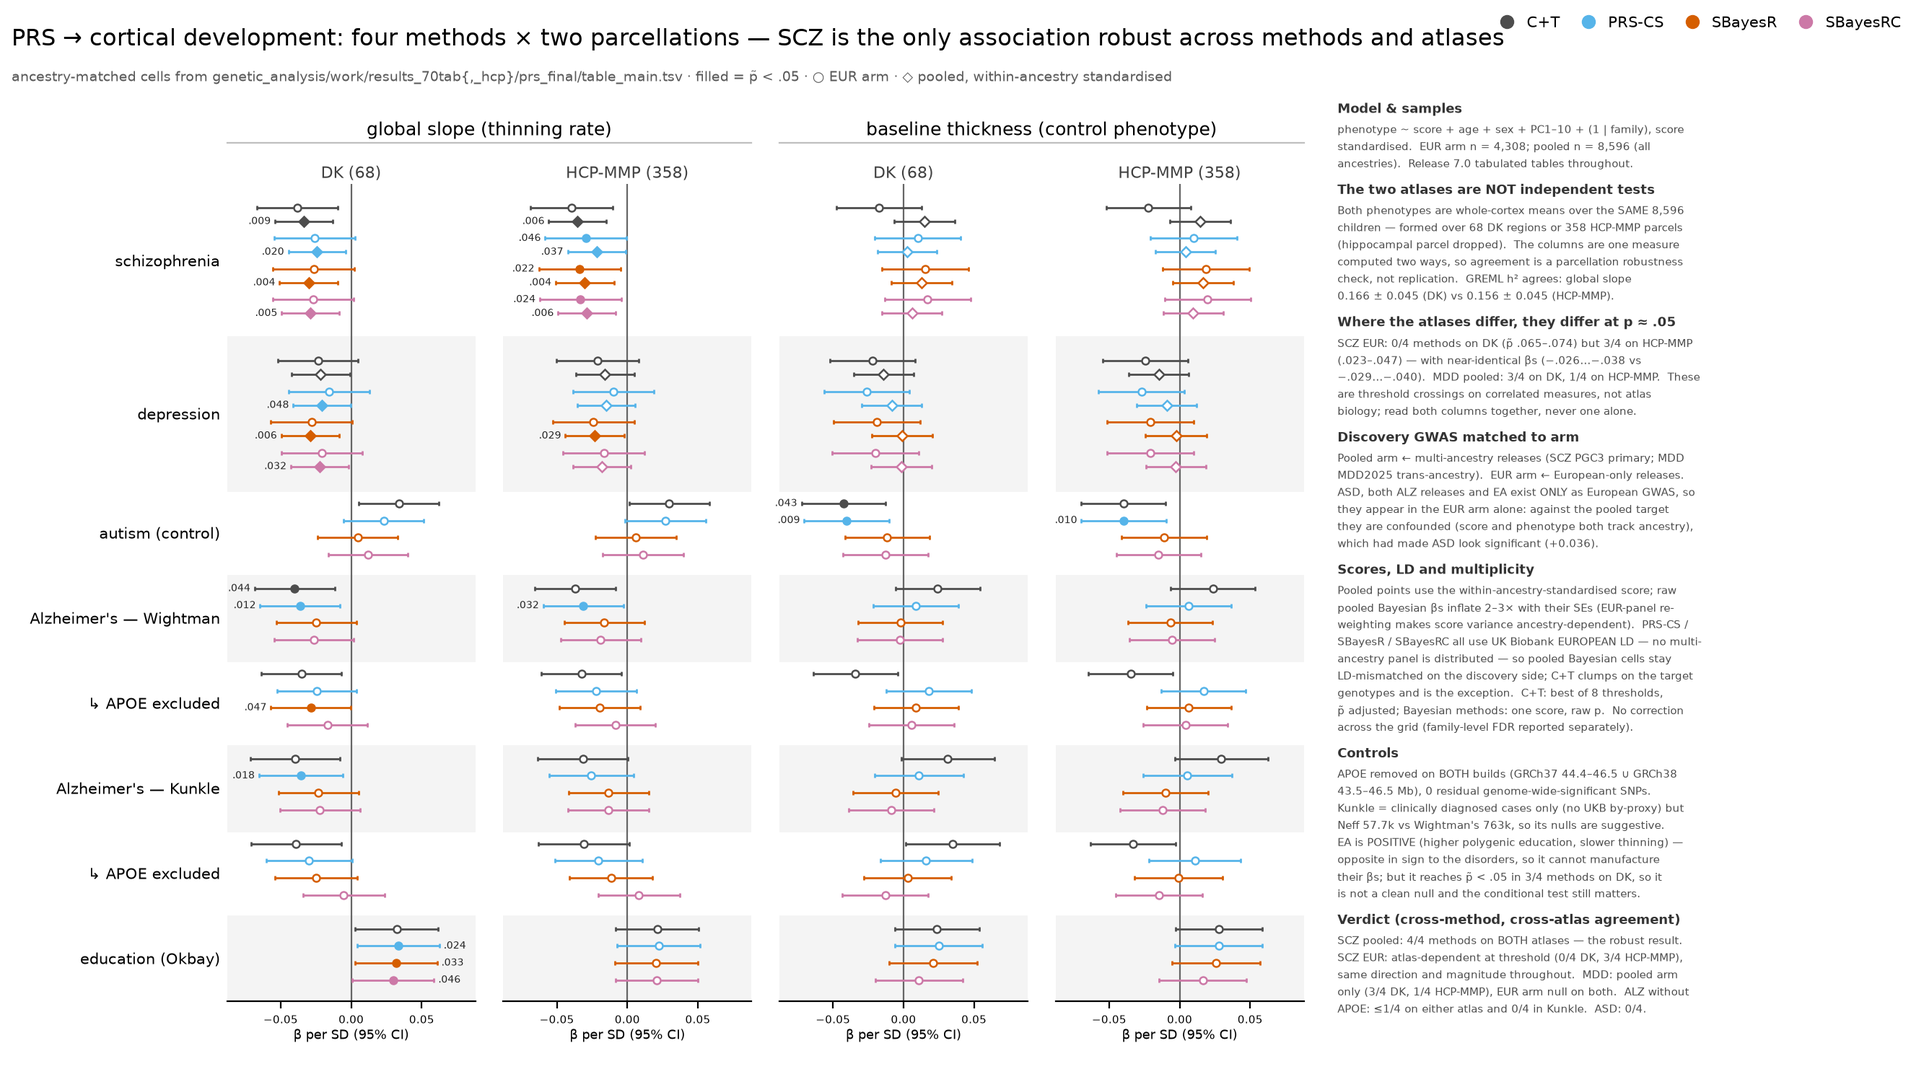
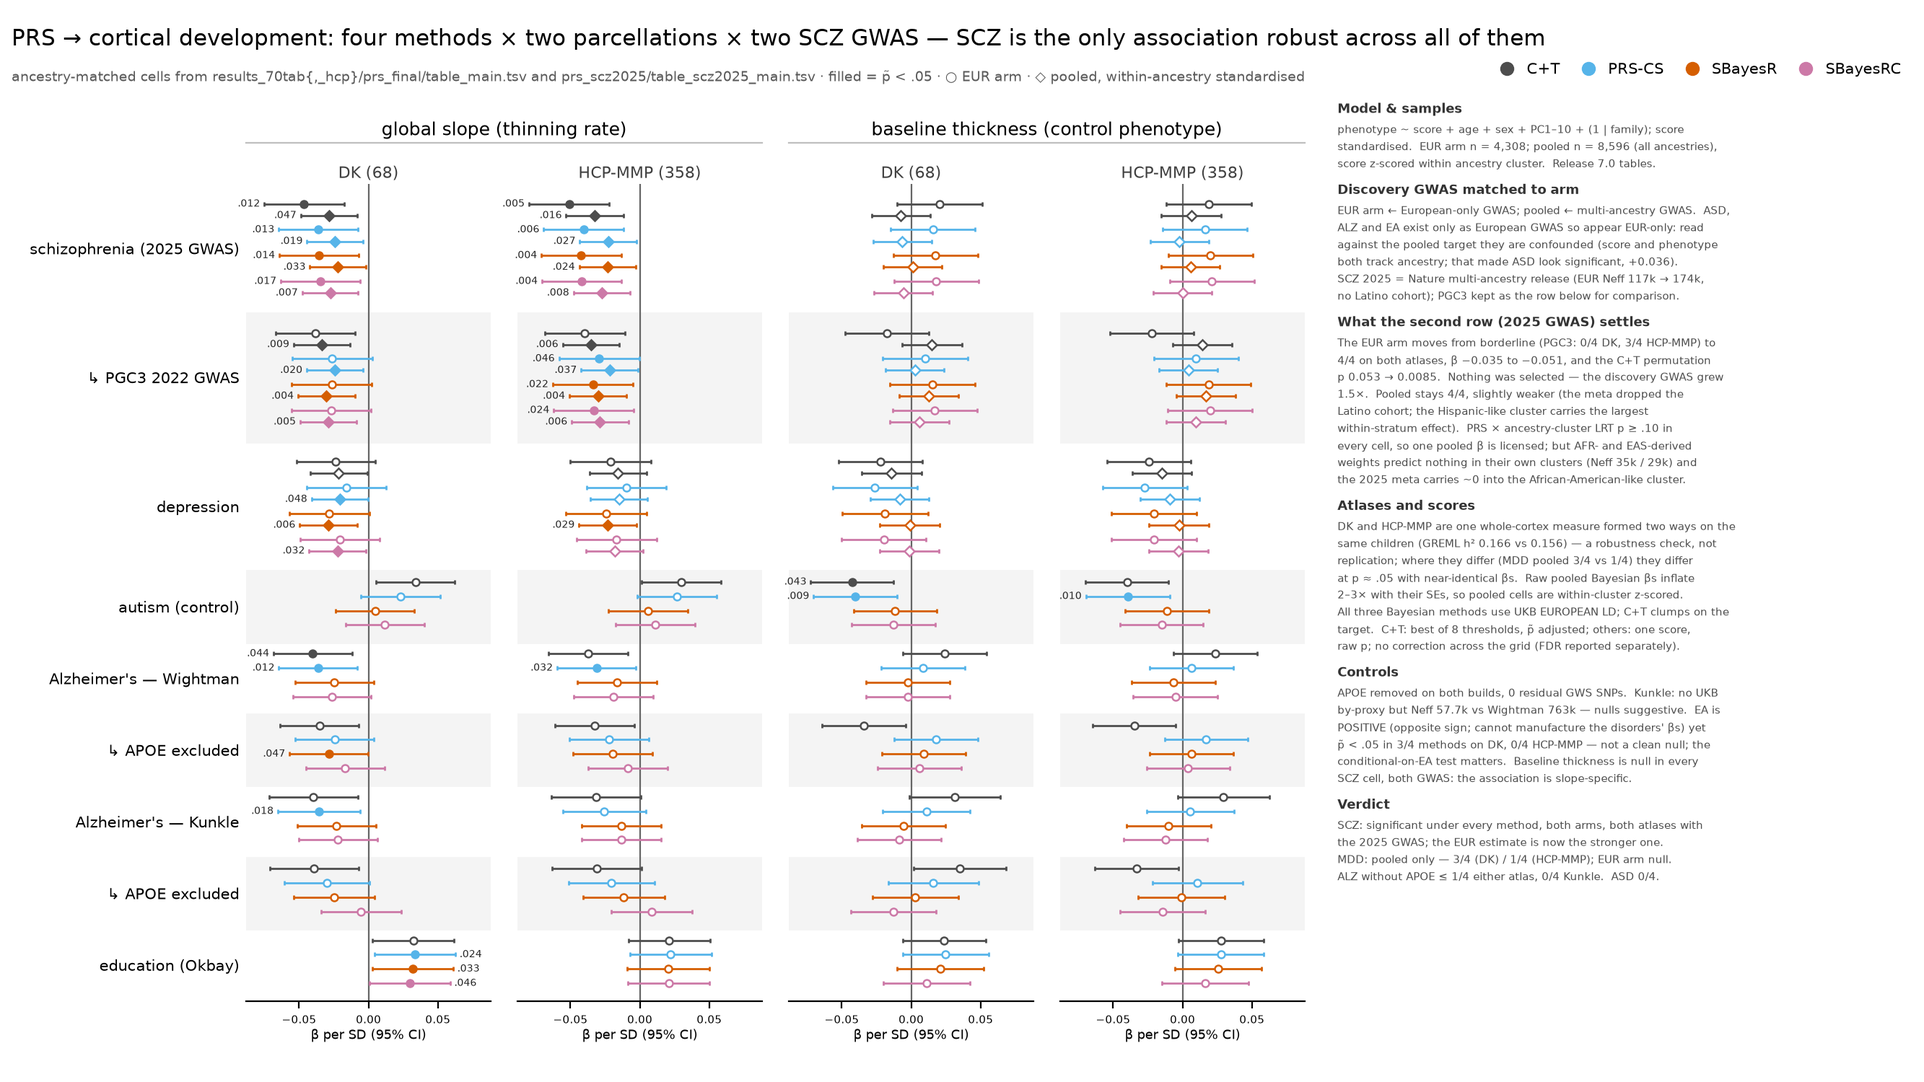
slides: the 2025 SCZ GWAS on the methods grid; notes compressed on both
slide_prs_methods -- load() now merges prs_final/table_main.tsv with the
step-9 prs_scz2025/table_scz2025_main.tsv (56f36ea), taking only
design='primary' cells for the four grid methods (SCZ25_EUR -> EUR anchor,
SCZ25_META -> pooled zanc).  New top band 'schizophrenia (2025 GWAS)' with
the PGC3 band kept directly beneath it, so the discovery-GWAS upgrade reads
as a within-figure comparison rather than a replacement.  Every count was
recomputed from the tables: EUR arm 0/4 DK, 3/4 HCP (PGC3) -> 4/4 both
atlases (2025), betas -0.035 to -0.051; pooled 4/4 -> 4/4, slightly weaker.
The right-hand notes are rewritten at the same length with the 2025 result
folded in: what the second row settles, the heterogeneity LRT (p >= .10),
the AFR/EAS-weight nulls and the observation the run log understates -- the
2025 META weights carry ~0 into the African-American-like cluster under the
Bayesian methods (cluster1 betas +.001 to +.017).

slide_prs_orderops -- data unchanged (the single-LMM run used PGC3 only);
notes compressed and given the 2025 context: the SCZ-EUR question it left
open is now resolved by the larger discovery GWAS, not by the construction.

Both: title font a half-point smaller and the legend dropped below the
title line -- they collided on the previous render.

diff --git a/genetic_analysis/slide_prs_methods.py b/genetic_analysis/slide_prs_methods.py
@@ -2,9 +2,11 @@
 
 Usage (repo root):  python genetic_analysis/slide_prs_methods.py
 
-Reads ONLY the two canonical grid tables built by setup/collect_final.py:
-    work/results_70tab/prs_final/table_main.tsv       (DK, 68 regions)
-    work/results_70tab_hcp/prs_final/table_main.tsv   (HCP-MMP, 358 parcels)
+Reads ONLY committed grid tables, per parcellation root
+(work/results_70tab = DK 68 regions; work/results_70tab_hcp = HCP-MMP 358):
+    prs_final/table_main.tsv            PGC3 SCZ, MDD2025, controls (step 6)
+    prs_scz2025/table_scz2025_main.tsv  the 2025 multi-ancestry SCZ GWAS
+                                        re-scored (step 9), primary cells
 Traits are facet ROWS; the four COLUMNS are phenotype x parcellation, so the
 atlas comparison sits side by side within each phenotype.
 
@@ -32,16 +34,14 @@ HERE = Path(__file__).resolve().parent
 REPO = HERE.parent
 OUT = REPO / "docs/figures/slide_prs_methods.png"
 
-#: (phenotype, parcellation label, grid table)
+#: (phenotype, parcellation label, results root).  Each root holds the PGC3
+#: grid (prs_final/table_main.tsv) and the step-9 2025 SCZ GWAS re-scoring
+#: (prs_scz2025/table_scz2025_main.tsv); load() reads both.
 COLUMNS = [
-    ("global_slope", "DK (68)",
-     HERE / "work/results_70tab/prs_final/table_main.tsv"),
-    ("global_slope", "HCP-MMP (358)",
-     HERE / "work/results_70tab_hcp/prs_final/table_main.tsv"),
-    ("baseline_thickness", "DK (68)",
-     HERE / "work/results_70tab/prs_final/table_main.tsv"),
-    ("baseline_thickness", "HCP-MMP (358)",
-     HERE / "work/results_70tab_hcp/prs_final/table_main.tsv"),
+    ("global_slope", "DK (68)", HERE / "work/results_70tab"),
+    ("global_slope", "HCP-MMP (358)", HERE / "work/results_70tab_hcp"),
+    ("baseline_thickness", "DK (68)", HERE / "work/results_70tab"),
+    ("baseline_thickness", "HCP-MMP (358)", HERE / "work/results_70tab_hcp"),
 ]
 GROUPS = [("global slope (thinning rate)", 0, 2),
           ("baseline thickness (control phenotype)", 2, 4)]
@@ -51,7 +51,8 @@ BASE, MID, SMALL = 10.5, 9.0, 7.5
 #: facet rows, top to bottom; height gives the two-arm disorder bands more
 #: room (8 markers vs 4) -- the ggplot space='free_y' behaviour.
 BANDS = [
-    ("SCZ", "schizophrenia", ("SCZ_eur", "SCZ_pooled"), 1.8),
+    ("SCZ25", "schizophrenia (2025 GWAS)", ("SCZ25_EUR", "SCZ25_META"), 1.8),
+    ("SCZ", "  ↳ PGC3 2022 GWAS", ("SCZ_eur", "SCZ_pooled"), 1.8),
     ("MDD", "depression", ("MDD_eur", "MDD_pooled"), 1.8),
     ("ASD", "autism (control)", ("ASD",), 1.0),
     ("ALZ", "Alzheimer's — Wightman", ("ALZ",), 1.0),
@@ -81,9 +82,17 @@ def _fmt_p(p: float) -> str:
     return f"{p:.0e}".replace("e-0", "e-") if p < 1e-3 else f"{p:.3f}"[1:]
 
 
-def load(path: Path, phenotype: str) -> pd.DataFrame:
-    t = pd.read_csv(path, sep="\t")
-    t = t[(t.phenotype == phenotype) & (t.matched == "yes")]
+def load(root: Path, phenotype: str) -> pd.DataFrame:
+    g = pd.read_csv(root / "prs_final/table_main.tsv", sep="\t")
+    g = g[g.matched == "yes"]
+    # step 9: the primary cells only (EUR GWAS -> EUR anchor; AFR+EUR+EAS
+    # meta -> pooled).  The four-method set is kept so the rows align with
+    # PGC3; PRS-CSx and the ancestry-matched composite live in the notes.
+    s = pd.read_csv(root / "prs_scz2025/table_scz2025_main.tsv", sep="\t")
+    s = s[(s.design == "primary") & s.method.isin(METHOD_ORDER)
+          & s.trait_arm.isin(["SCZ25_EUR", "SCZ25_META"])]
+    t = pd.concat([g, s], ignore_index=True)
+    t = t[t.phenotype == phenotype]
     keep = ((t.target_stratum == "EUR") & (t.score == "raw")) | \
            ((t.target_stratum == "full") & (t.score == "zanc"))
     t = t[keep].copy()
@@ -134,60 +143,52 @@ def panel(fig, rect, d, title, show_ylab):
 
 NOTES = [
     ("Model & samples", [
-        "phenotype ~ score + age + sex + PC1–10 + (1 | family), score",
-        "standardised.  EUR arm n = 4,308; pooled n = 8,596 (all",
-        "ancestries).  Release 7.0 tabulated tables throughout.",
-    ]),
-    ("The two atlases are NOT independent tests", [
-        "Both phenotypes are whole-cortex means over the SAME 8,596",
-        "children — formed over 68 DK regions or 358 HCP-MMP parcels",
-        "(hippocampal parcel dropped).  The columns are one measure",
-        "computed two ways, so agreement is a parcellation robustness",
-        "check, not replication.  GREML h² agrees: global slope",
-        "0.166 ± 0.045 (DK) vs 0.156 ± 0.045 (HCP-MMP).",
-    ]),
-    ("Where the atlases differ, they differ at p ≈ .05", [
-        "SCZ EUR: 0/4 methods on DK (p̃ .065–.074) but 3/4 on HCP-MMP",
-        "(.023–.047) — with near-identical βs (−.026…−.038 vs",
-        "−.029…−.040).  MDD pooled: 3/4 on DK, 1/4 on HCP-MMP.  These",
-        "are threshold crossings on correlated measures, not atlas",
-        "biology; read both columns together, never one alone.",
+        "phenotype ~ score + age + sex + PC1–10 + (1 | family); score",
+        "standardised.  EUR arm n = 4,308; pooled n = 8,596 (all ancestries),",
+        "score z-scored within ancestry cluster.  Release 7.0 tables.",
     ]),
     ("Discovery GWAS matched to arm", [
-        "Pooled arm ← multi-ancestry releases (SCZ PGC3 primary; MDD",
-        "MDD2025 trans-ancestry).  EUR arm ← European-only releases.",
-        "ASD, both ALZ releases and EA exist ONLY as European GWAS, so",
-        "they appear in the EUR arm alone: against the pooled target",
-        "they are confounded (score and phenotype both track ancestry),",
-        "which had made ASD look significant (+0.036).",
+        "EUR arm ← European-only GWAS; pooled ← multi-ancestry GWAS.  ASD,",
+        "ALZ and EA exist only as European GWAS so appear EUR-only: read",
+        "against the pooled target they are confounded (score and phenotype",
+        "both track ancestry; that made ASD look significant, +0.036).",
+        "SCZ 2025 = Nature multi-ancestry release (EUR Neff 117k → 174k,",
+        "no Latino cohort); PGC3 kept as the row below for comparison.",
     ]),
-    ("Scores, LD and multiplicity", [
-        "Pooled points use the within-ancestry-standardised score; raw",
-        "pooled Bayesian βs inflate 2–3× with their SEs (EUR-panel re-",
-        "weighting makes score variance ancestry-dependent).  PRS-CS /",
-        "SBayesR / SBayesRC all use UK Biobank EUROPEAN LD — no multi-",
-        "ancestry panel is distributed — so pooled Bayesian cells stay",
-        "LD-mismatched on the discovery side; C+T clumps on the target",
-        "genotypes and is the exception.  C+T: best of 8 thresholds,",
-        "p̃ adjusted; Bayesian methods: one score, raw p.  No correction",
-        "across the grid (family-level FDR reported separately).",
+    ("What the second row (2025 GWAS) settles", [
+        "The EUR arm moves from borderline (PGC3: 0/4 DK, 3/4 HCP-MMP) to",
+        "4/4 on both atlases, β −0.035 to −0.051, and the C+T permutation",
+        "p 0.053 → 0.0085.  Nothing was selected — the discovery GWAS grew",
+        "1.5×.  Pooled stays 4/4, slightly weaker (the meta dropped the",
+        "Latino cohort; the Hispanic-like cluster carries the largest",
+        "within-stratum effect).  PRS × ancestry-cluster LRT p ≥ .10 in",
+        "every cell, so one pooled β is licensed; but AFR- and EAS-derived",
+        "weights predict nothing in their own clusters (Neff 35k / 29k) and",
+        "the 2025 meta carries ~0 into the African-American-like cluster.",
+    ]),
+    ("Atlases and scores", [
+        "DK and HCP-MMP are one whole-cortex measure formed two ways on the",
+        "same children (GREML h² 0.166 vs 0.156) — a robustness check, not",
+        "replication; where they differ (MDD pooled 3/4 vs 1/4) they differ",
+        "at p ≈ .05 with near-identical βs.  Raw pooled Bayesian βs inflate",
+        "2–3× with their SEs, so pooled cells are within-cluster z-scored.",
+        "All three Bayesian methods use UKB EUROPEAN LD; C+T clumps on the",
+        "target.  C+T: best of 8 thresholds, p̃ adjusted; others: one score,",
+        "raw p; no correction across the grid (FDR reported separately).",
     ]),
     ("Controls", [
-        "APOE removed on BOTH builds (GRCh37 44.4–46.5 ∪ GRCh38",
-        "43.5–46.5 Mb), 0 residual genome-wide-significant SNPs.",
-        "Kunkle = clinically diagnosed cases only (no UKB by-proxy) but",
-        "Neff 57.7k vs Wightman's 763k, so its nulls are suggestive.",
-        "EA is POSITIVE (higher polygenic education, slower thinning) —",
-        "opposite in sign to the disorders, so it cannot manufacture",
-        "their βs; but it reaches p̃ < .05 in 3/4 methods on DK, so it",
-        "is not a clean null and the conditional test still matters.",
+        "APOE removed on both builds, 0 residual GWS SNPs.  Kunkle: no UKB",
+        "by-proxy but Neff 57.7k vs Wightman 763k — nulls suggestive.  EA is",
+        "POSITIVE (opposite sign; cannot manufacture the disorders' βs) yet",
+        "p̃ < .05 in 3/4 methods on DK, 0/4 HCP-MMP — not a clean null; the",
+        "conditional-on-EA test matters.  Baseline thickness is null in every",
+        "SCZ cell, both GWAS: the association is slope-specific.",
     ]),
-    ("Verdict (cross-method, cross-atlas agreement)", [
-        "SCZ pooled: 4/4 methods on BOTH atlases — the robust result.",
-        "SCZ EUR: atlas-dependent at threshold (0/4 DK, 3/4 HCP-MMP),",
-        "same direction and magnitude throughout.  MDD: pooled arm",
-        "only (3/4 DK, 1/4 HCP-MMP), EUR arm null on both.  ALZ without",
-        "APOE: ≤1/4 on either atlas and 0/4 in Kunkle.  ASD: 0/4.",
+    ("Verdict", [
+        "SCZ: significant under every method, both arms, both atlases with",
+        "the 2025 GWAS; the EUR estimate is now the stronger one.",
+        "MDD: pooled only — 3/4 (DK) / 1/4 (HCP-MMP); EUR arm null.",
+        "ALZ without APOE ≤ 1/4 either atlas, 0/4 Kunkle.  ASD 0/4.",
     ]),
 ]
 
@@ -199,15 +200,15 @@ def draw() -> Path:
     })
     fig = plt.figure(figsize=(13.333, 7.5))
     fig.text(0.006, 0.958, "PRS → cortical development: four methods × two "
-             "parcellations — SCZ is the only association robust across "
-             "methods and atlases", fontsize=BASE + 1)
+             "parcellations × two SCZ GWAS — SCZ is the only association "
+             "robust across all of them", fontsize=BASE + 0.5)
     fig.text(0.006, 0.925, "ancestry-matched cells from "
-             "genetic_analysis/work/results_70tab{,_hcp}/prs_final/"
-             "table_main.tsv · filled = p̃ < .05 · ○ EUR arm · ◇ pooled, "
-             "within-ancestry standardised", fontsize=SMALL - 0.5,
-             color="0.35")
+             "results_70tab{,_hcp}/prs_final/table_main.tsv and "
+             "prs_scz2025/table_scz2025_main.tsv · filled = p̃ < .05 · "
+             "○ EUR arm · ◇ pooled, within-ancestry standardised",
+             fontsize=SMALL - 0.5, color="0.35")
 
-    x0, w, gap, y0, h = 0.118, 0.129, 0.0145, 0.075, 0.755
+    x0, w, gap, y0, h = 0.128, 0.127, 0.0140, 0.075, 0.755
     for k, (pheno, parc, table) in enumerate(COLUMNS):
         rect = [x0 + k * (w + gap), y0, w, h]
         panel(fig, rect, load(table, pheno), parc, show_ylab=(k == 0))
@@ -225,7 +226,7 @@ def draw() -> Path:
                                 ls="", mfc=METHOD_COLOR[m],
                                 label=METHOD_LABEL[m]) for m in METHOD_ORDER]
     fig.legend(handles=handles, loc="upper right",
-               bbox_to_anchor=(0.995, 0.998), ncol=4, frameon=False,
+               bbox_to_anchor=(0.995, 0.955), ncol=4, frameon=False,
                fontsize=SMALL, handletextpad=0.3, columnspacing=0.9)
 
     xn, y = 0.695, 0.905

diff --git a/genetic_analysis/slide_prs_orderops.py b/genetic_analysis/slide_prs_orderops.py
@@ -147,12 +147,11 @@ def draw() -> Path:
 
     fig = plt.figure(figsize=(13.333, 7.5))
     fig.text(0.006, 0.955, "Order of operations: mean of per-region slope "
-             "BLUPs vs one LMM on the per-scan mean — SCZ pooled is "
-             "invariant, MDD strengthens throughout", fontsize=BASE + 1)
-    fig.text(0.006, 0.921, "same 8,596 children, same scores, same model · "
-             "○ EUR arm · ◇ pooled arm (as in slide_prs_methods) · faded = "
-             "mean of per-region BLUPs (pipeline primary), solid = single LMM "
-             "(mean first), arrow shows the shift · filled = p̃ < .05",
+             "BLUPs vs one LMM on the per-scan mean — SCZ pooled invariant, "
+             "MDD strengthens throughout", fontsize=BASE + 0.5)
+    fig.text(0.006, 0.921, "same 8,596 children, scores and model · ○ EUR "
+             "· ◇ pooled · faded = mean of per-region BLUPs (primary), solid = "
+             "single LMM, arrow = shift · filled = p̃ < .05",
              fontsize=SMALL - 0.5, color="0.35")
 
     x0, w, gap, y0, h = 0.098, 0.245, 0.035, 0.115, 0.735
@@ -164,45 +163,39 @@ def draw() -> Path:
                                 ls="", mfc=METHOD_COLOR[m],
                                 label=METHOD_LABEL[m]) for m in METHOD_ORDER]
     fig.legend(handles=handles, loc="upper right",
-               bbox_to_anchor=(0.995, 0.998), ncol=4, frameon=False,
+               bbox_to_anchor=(0.995, 0.940), ncol=4, frameon=False,
                fontsize=SMALL, handletextpad=0.3, columnspacing=0.9)
 
     def cnt(atlas, ta):
         return f"{C[atlas][(ta, 'perregion')]}/4 → {C[atlas][(ta, '1lmm')]}/4"
 
     notes = [
-        ("The two constructions are different phenotypes", [
+        ("Two constructions, one measure", [
             f"r(mean of BLUPs, single-LMM slope) = "
-            f"{S[('r_slope_constructions','dk')]:.3f} on DK and "
-            f"{S[('r_slope_constructions','hcp')]:.3f} on HCP-MMP; the",
-            f"intercepts by contrast agree at "
-            f"{S[('r_intercept_constructions','dk')]:.4f} / "
-            f"{S[('r_intercept_constructions','hcp')]:.4f}.  A BLUP is shrunk",
-            "toward the population mean in proportion to its own",
-            "unreliability, so averaging 68 (358) differently-shrunk",
-            "regional slopes OVER-shrinks, child by child, depending on",
-            "which regions are noisy for that child.  The mean-of-BLUPs",
-            f"slope carries only "
+            f"{S[('r_slope_constructions','dk')]:.3f} DK / "
+            f"{S[('r_slope_constructions','hcp')]:.3f} HCP-MMP; intercepts",
+            f"agree at {S[('r_intercept_constructions','dk')]:.4f}.  Each "
+            "regional BLUP is shrunk by its OWN",
+            "variance ratio, so averaging 68 (358) of them over-shrinks child",
+            f"by child: the mean-of-BLUPs slope keeps "
             f"{S[('sd_slope_perregion_mm_per_yr','dk')] / S[('sd_slope_1lmm_mm_per_yr','dk')]:.0%}"
-            f" of the single-LMM slope's SD on DK",
-            f"({S[('sd_slope_perregion_mm_per_yr','hcp')] / S[('sd_slope_1lmm_mm_per_yr','hcp')]:.0%}"
-            " on HCP-MMP).  Agreement rises with scans per child",
-            f"({S[('r_slope_visits2','dk')]:.2f} / {S[('r_slope_visits3','dk')]:.2f}"
-            f" / {S[('r_slope_visits4','dk')]:.2f} on DK for 2 / 3 / 4 visits) —",
-            "less shrinkage left to disagree about — and the mean-first",
-            f"slope is the more atlas-invariant of the two "
-            f"({S[('cross_atlas_r_slope','perregion')]:.3f} →",
-            f"{S[('cross_atlas_r_slope','1lmm')]:.3f} across atlases).",
+            f" / "
+            f"{S[('sd_slope_perregion_mm_per_yr','hcp')] / S[('sd_slope_1lmm_mm_per_yr','hcp')]:.0%}"
+            " of the",
+            f"single-LMM SD, agreement rises with scans "
+            f"({S[('r_slope_visits2','dk')]:.2f}/{S[('r_slope_visits3','dk')]:.2f}/"
+            f"{S[('r_slope_visits4','dk')]:.2f} for 2/3/4),",
+            f"and mean-first is more atlas-invariant "
+            f"({S[('cross_atlas_r_slope','perregion')]:.3f} → "
+            f"{S[('cross_atlas_r_slope','1lmm')]:.3f}).",
         ]),
         ("β moves, precision does not", [
-            "SEs are identical to the third decimal (ratio 0.996): the",
-            "phenotype is standardised, so the SE is set by n and the",
-            "score–phenotype correlation, not by the construction.  What",
-            "moves is β — mean −0.004, mean-first more negative, max",
-            "|Δ| 0.020 — so this is a change in recovered signal, not a",
-            "precision gain.",
+            "SEs identical to the third decimal (ratio 0.996) — set by n and",
+            "the score–phenotype correlation, not the construction.  What",
+            "moves is β (mean −0.004, mean-first more negative, max |Δ| .020):",
+            "recovered signal, not a precision gain.",
         ]),
-        ("What each cell does", [
+        ("Cells significant (p̃ < .05), mean-of-BLUPs → single LMM", [
             f"SCZ pooled   {cnt('dk','SCZ_pooled')} (DK)   "
             f"{cnt('hcp','SCZ_pooled')} (HCP-MMP)",
             f"SCZ EUR      {cnt('dk','SCZ_eur')} (DK)   "
@@ -213,27 +206,22 @@ def draw() -> Path:
             f"{cnt('hcp','MDD_eur')} (HCP-MMP)",
         ]),
         ("Reading", [
-            "SCZ pooled is invariant to the construction as it was to the",
-            "atlas — 4 methods × 2 atlases × 2 constructions, 16/16 cells",
-            "significant, βs within 0.003.  That is the licensed result.",
-            "MDD strengthens systematically: all 16 MDD cells move toward",
-            "significance, and MDD-EUR — null on both atlases under the",
-            "pipeline construction — becomes nominally significant under",
-            "2–3 methods.  A coherent one-directional shift across 16",
-            "tests, consistent with a weak, spread-out polygenic signal",
-            "being less attenuated in the less-shrunk phenotype.",
-            "SCZ EUR weakens on both atlases; the 3/4 the HCP-MMP atlas",
-            "comparison produced is gone again.  It is marginal on every",
-            "axis tried — data vintage, atlas, construction — and should",
-            "be described that way, not as a result.",
+            "SCZ pooled is invariant (16/16 cells across method × atlas ×",
+            "construction, βs within .003).  MDD strengthens in all 16 cells",
+            "and MDD-EUR turns nominally significant under 2–3 methods — a",
+            "one-directional shift ≈ 1.5–2 SE of the difference, consistent",
+            "with a weak, spatially spread signal being less attenuated in the",
+            "less-shrunk phenotype (MDD loads on slope PC3 as much as on the",
+            "global mean; SCZ is carried almost entirely by PC1).  The SCZ-EUR",
+            "'weakening' is ≈ 0.5 SE and absent from SCZ pooled: noise.",
         ]),
-        ("Scope — this is a sensitivity phenotype, not a re-analysis", [
-            "The single-LMM run covered the 16 matched SCZ/MDD cells per",
-            "atlas ONLY.  There are no single-LMM results for the controls",
-            "(ASD, ALZ ×4, EA) or for baseline thickness, so specificity",
-            "still rests entirely on the mean-of-BLUPs construction.  That",
-            "construction remains the registered primary; this one is a",
-            "documented sensitivity analysis.",
+        ("Scope and the SCZ-EUR question since resolved", [
+            "This run covered the 16 matched SCZ/MDD cells per atlas with the",
+            "PGC3 SCZ GWAS only — no controls, no baseline thickness, and not",
+            "yet the 2025 SCZ GWAS, under which SCZ-EUR is 4/4 on both atlases",
+            "(slide_prs_methods).  Mean-of-BLUPs remains the registered",
+            "primary; the single LMM is a documented sensitivity phenotype",
+            "until the full grid is re-run on it.",
         ]),
     ]
 
